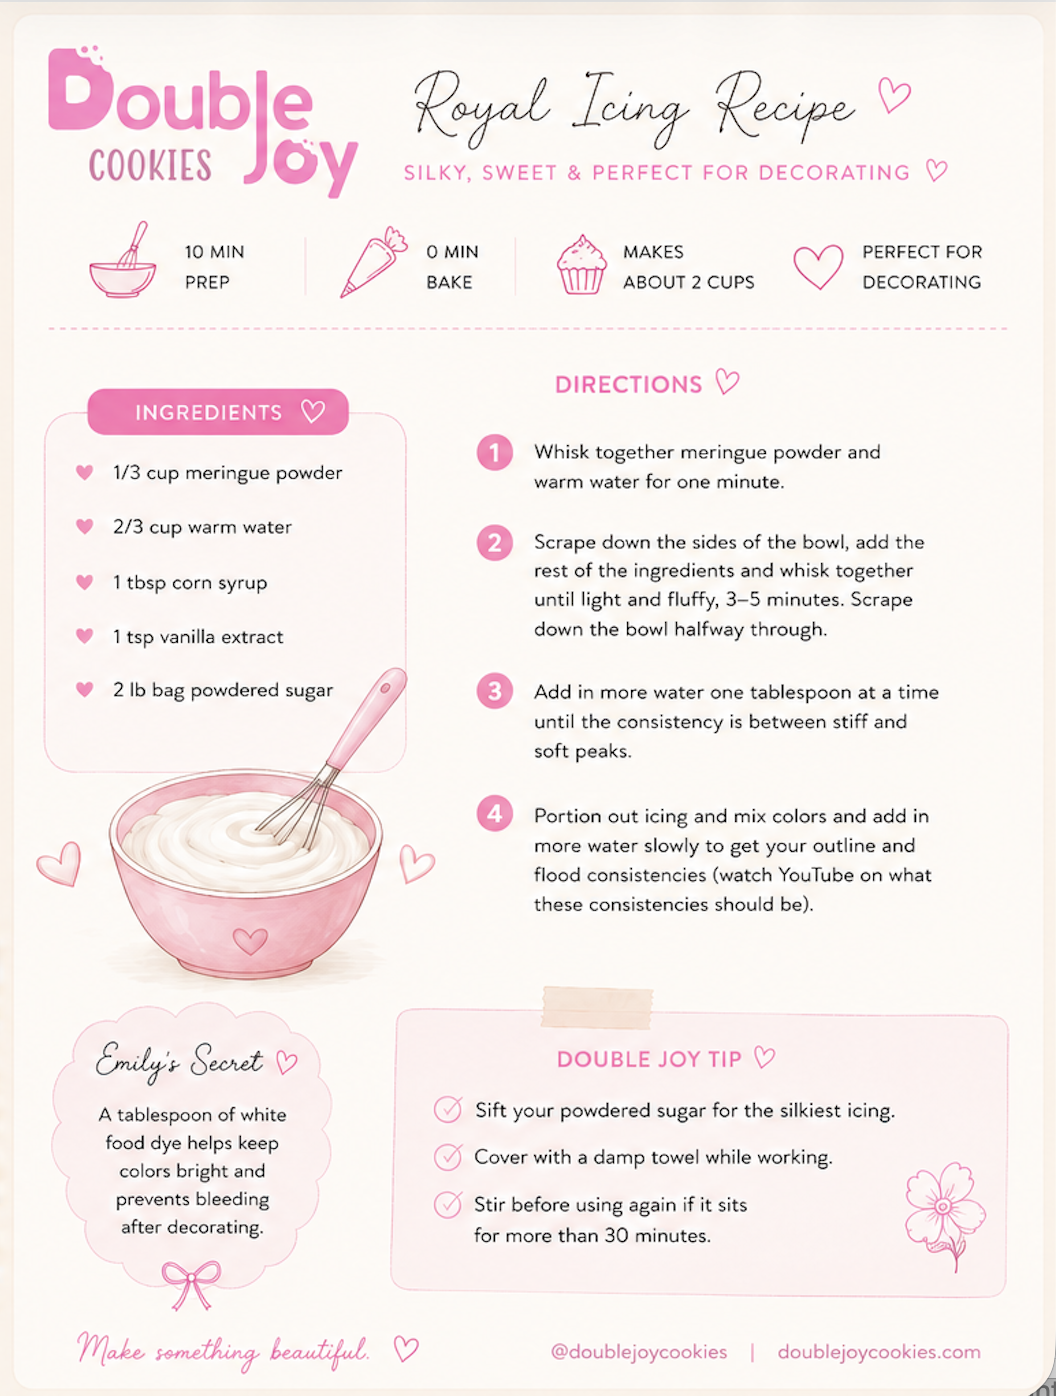
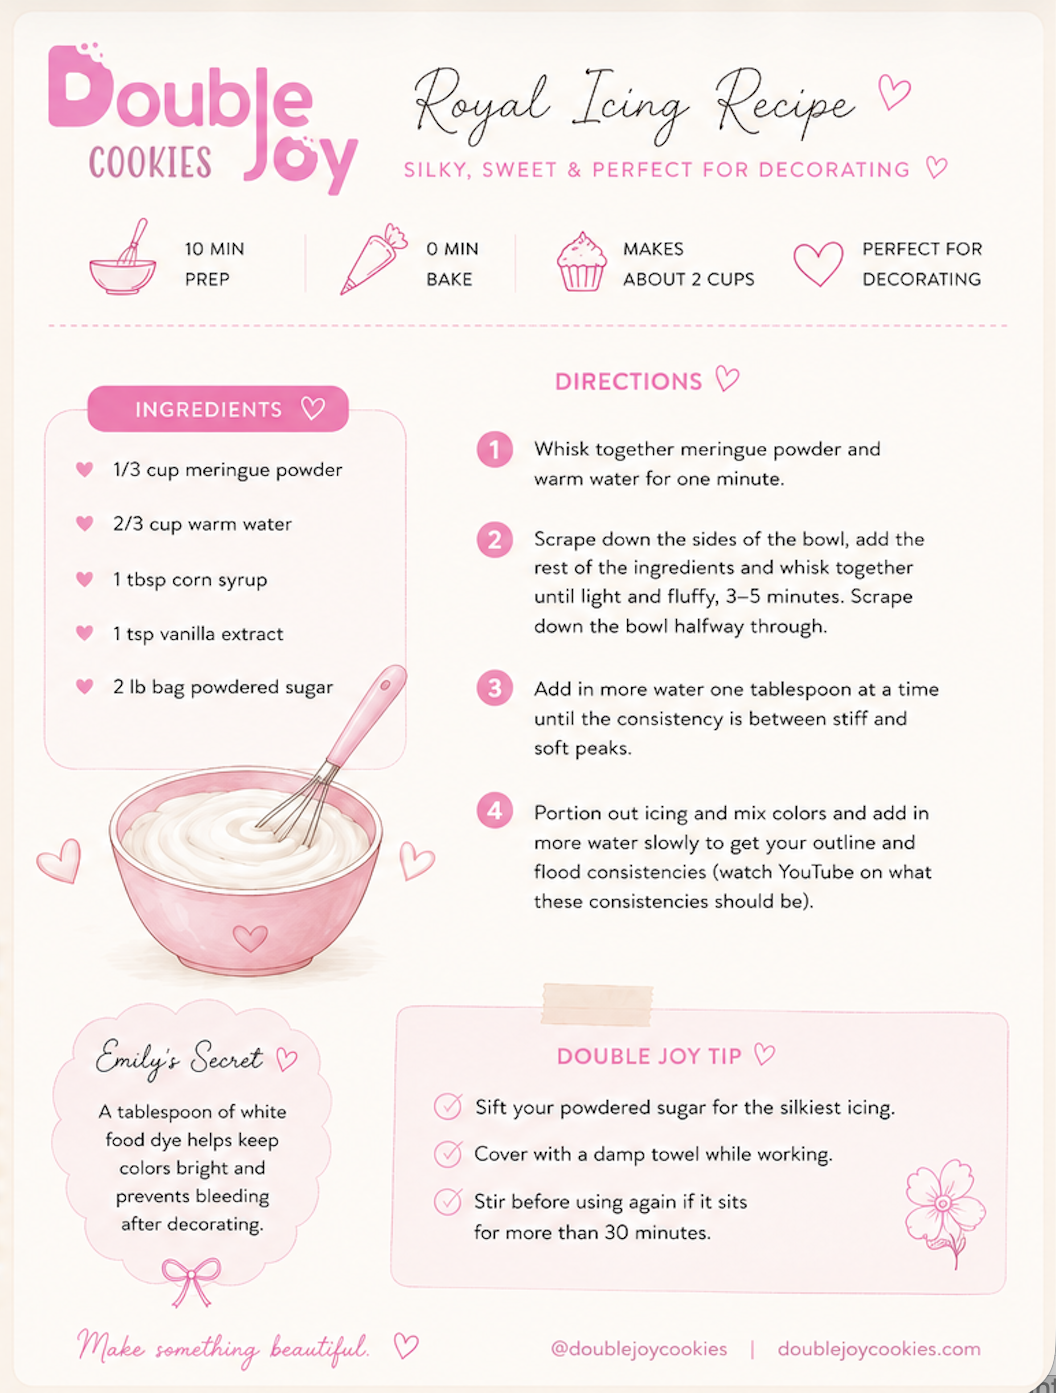
Crop royal icing recipe image, fix mobile date-min bug, rename nav to Shop My Kitchen

diff --git a/Website Files/double_joy_order_form.html b/Website Files/double_joy_order_form.html
@@ -242,7 +242,7 @@
     <a href="double_joy_about.html">About</a>
     <a href="double_joy_pricing.html">Pricing</a>
     <a href="double_joy_presale.html">Presale</a>
-    <a href="double_joy_recipe_shop.html">Shop</a>
+    <a href="double_joy_recipe_shop.html">Shop My Kitchen</a>
     <a href="double_joy_faq.html">FAQ</a>
     <a href="double_joy_contact.html">Contact</a>
   </div>
@@ -418,7 +418,7 @@
     <a href="double_joy_about.html">About</a>
     <a href="double_joy_pricing.html">Pricing</a>
     <a href="double_joy_presale.html">Presale</a>
-    <a href="double_joy_recipe_shop.html">Shop</a>
+    <a href="double_joy_recipe_shop.html">Shop My Kitchen</a>
     <a href="double_joy_faq.html">FAQ</a>
     <a href="double_joy_contact.html">Contact</a>
     <a href="double_joy_terms.html">Terms</a>
@@ -468,6 +468,17 @@ let DJC_EARLIEST_NEEDBY = '';
   const d = String(earliest.getDate()).padStart(2, '0');
   DJC_EARLIEST_NEEDBY = `${y}-${m}-${d}`;
   needByInput.min = DJC_EARLIEST_NEEDBY;
+
+  /* Some mobile browsers (iOS Safari in particular) don't reliably enforce
+     the native `min` attribute in the date picker UI, so the user can still
+     scroll/tap a date before it. Catch it the instant it's picked (not just
+     at submit) and snap it forward to the earliest valid date. */
+  needByInput.addEventListener('change', function(){
+    if(needByInput.value && needByInput.value < DJC_EARLIEST_NEEDBY){
+      needByInput.value = DJC_EARLIEST_NEEDBY;
+      if(typeof showToast === 'function') showToast("Orders need at least 2 weeks' notice — I moved this to the earliest available date.");
+    }
+  });
 })();
 
 /* Cute dozen stepper for quantity — replaces free-typed number input so

diff --git a/Website Files/double_joy_faq.html b/Website Files/double_joy_faq.html
@@ -141,7 +141,7 @@
     <a href="double_joy_about.html">About</a>
     <a href="double_joy_pricing.html">Pricing</a>
     <a href="double_joy_presale.html">Presale</a>
-    <a href="double_joy_recipe_shop.html">Shop</a>
+    <a href="double_joy_recipe_shop.html">Shop My Kitchen</a>
     <a href="double_joy_faq.html" class="current">FAQ</a>
     <a href="double_joy_contact.html">Contact</a>
   </div>
@@ -207,7 +207,7 @@
     <a href="double_joy_pricing.html">Pricing</a>
     <a href="double_joy_presale.html">Presale</a>
     <a href="double_joy_order_form.html">Custom Order</a>
-    <a href="double_joy_recipe_shop.html">Shop</a>
+    <a href="double_joy_recipe_shop.html">Shop My Kitchen</a>
     <a href="double_joy_contact.html">Contact</a>
     <a href="double_joy_terms.html">Terms</a>
     <a href="double_joy_payment.html">Payment</a>

diff --git a/Website Files/double_joy_about.html b/Website Files/double_joy_about.html
@@ -198,7 +198,7 @@
     <a href="double_joy_about.html" class="current">About</a>
     <a href="double_joy_pricing.html">Pricing</a>
     <a href="double_joy_presale.html">Presale</a>
-    <a href="double_joy_recipe_shop.html">Shop</a>
+    <a href="double_joy_recipe_shop.html">Shop My Kitchen</a>
     <a href="double_joy_faq.html">FAQ</a>
     <a href="double_joy_contact.html">Contact</a>
   </div>
@@ -345,7 +345,7 @@
     <a href="double_joy_pricing.html">Pricing</a>
     <a href="double_joy_presale.html">Presale</a>
     <a href="double_joy_order_form.html">Custom Order</a>
-    <a href="double_joy_recipe_shop.html">Shop</a>
+    <a href="double_joy_recipe_shop.html">Shop My Kitchen</a>
     <a href="double_joy_faq.html">FAQ</a>
     <a href="double_joy_contact.html">Contact</a>
     <a href="double_joy_terms.html">Terms</a>

diff --git a/Website Files/double_joy_contact.html b/Website Files/double_joy_contact.html
@@ -150,7 +150,7 @@
     <a href="double_joy_about.html">About</a>
     <a href="double_joy_pricing.html">Pricing</a>
     <a href="double_joy_presale.html">Presale</a>
-    <a href="double_joy_recipe_shop.html">Shop</a>
+    <a href="double_joy_recipe_shop.html">Shop My Kitchen</a>
     <a href="double_joy_faq.html">FAQ</a>
     <a href="double_joy_contact.html" class="current">Contact</a>
   </div>
@@ -210,7 +210,7 @@
     <a href="double_joy_pricing.html">Pricing</a>
     <a href="double_joy_presale.html">Presale</a>
     <a href="double_joy_order_form.html">Custom Order</a>
-    <a href="double_joy_recipe_shop.html">Shop</a>
+    <a href="double_joy_recipe_shop.html">Shop My Kitchen</a>
     <a href="double_joy_faq.html">FAQ</a>
     <a href="double_joy_terms.html">Terms</a>
     <a href="double_joy_payment.html">Payment</a>

diff --git a/Website Files/double_joy_presale.html b/Website Files/double_joy_presale.html
@@ -194,7 +194,7 @@
     <a href="double_joy_about.html">About</a>
     <a href="double_joy_pricing.html">Pricing</a>
     <a href="double_joy_presale.html" class="current">Presale</a>
-    <a href="double_joy_recipe_shop.html">Shop</a>
+    <a href="double_joy_recipe_shop.html">Shop My Kitchen</a>
     <a href="double_joy_faq.html">FAQ</a>
     <a href="double_joy_contact.html">Contact</a>
   </div>
@@ -254,7 +254,7 @@
     <a href="double_joy_pricing.html">Pricing</a>
     <a href="double_joy_order_form.html">Custom Order</a>
     <a href="double_joy_presale.html">Presale</a>
-    <a href="double_joy_recipe_shop.html">Shop</a>
+    <a href="double_joy_recipe_shop.html">Shop My Kitchen</a>
     <a href="double_joy_faq.html">FAQ</a>
     <a href="double_joy_contact.html">Contact</a>
     <a href="double_joy_terms.html">Terms</a>

diff --git a/Website Files/double_joy_pricing.html b/Website Files/double_joy_pricing.html
@@ -175,7 +175,7 @@
     <a href="double_joy_about.html">About</a>
     <a href="double_joy_pricing.html" class="current">Pricing</a>
     <a href="double_joy_presale.html">Presale</a>
-    <a href="double_joy_recipe_shop.html">Shop</a>
+    <a href="double_joy_recipe_shop.html">Shop My Kitchen</a>
     <a href="double_joy_faq.html">FAQ</a>
     <a href="double_joy_contact.html">Contact</a>
   </div>
@@ -305,7 +305,7 @@
     <a href="double_joy_about.html">About</a>
     <a href="double_joy_order_form.html">Custom Order</a>
     <a href="double_joy_presale.html">Presale</a>
-    <a href="double_joy_recipe_shop.html">Shop</a>
+    <a href="double_joy_recipe_shop.html">Shop My Kitchen</a>
     <a href="double_joy_faq.html">FAQ</a>
     <a href="double_joy_contact.html">Contact</a>
     <a href="double_joy_terms.html">Terms</a>

diff --git a/Website Files/double_joy_terms.html b/Website Files/double_joy_terms.html
@@ -127,7 +127,7 @@
     <a href="double_joy_about.html">About</a>
     <a href="double_joy_pricing.html">Pricing</a>
     <a href="double_joy_presale.html">Presale</a>
-    <a href="double_joy_recipe_shop.html">Shop</a>
+    <a href="double_joy_recipe_shop.html">Shop My Kitchen</a>
     <a href="double_joy_faq.html">FAQ</a>
     <a href="double_joy_contact.html">Contact</a>
   </div>
@@ -209,7 +209,7 @@
     <a href="double_joy_pricing.html">Pricing</a>
     <a href="double_joy_presale.html">Presale</a>
     <a href="double_joy_order_form.html">Custom Order</a>
-    <a href="double_joy_recipe_shop.html">Shop</a>
+    <a href="double_joy_recipe_shop.html">Shop My Kitchen</a>
     <a href="double_joy_faq.html">FAQ</a>
     <a href="double_joy_contact.html">Contact</a>
     <a href="double_joy_payment.html">Payment</a>

diff --git a/Website Files/double_joy_cookie_menu.html b/Website Files/double_joy_cookie_menu.html
@@ -457,7 +457,7 @@
     <a href="double_joy_about.html">About</a>
     <a href="double_joy_pricing.html">Pricing</a>
     <a href="double_joy_presale.html">Presale</a>
-    <a href="double_joy_recipe_shop.html">Shop</a>
+    <a href="double_joy_recipe_shop.html">Shop My Kitchen</a>
     <a href="double_joy_faq.html">FAQ</a>
     <a href="double_joy_contact.html">Contact</a>
   </div>
@@ -543,7 +543,7 @@
     <a href="double_joy_pricing.html">Pricing</a>
     <a href="double_joy_presale.html">Presale</a>
     <a href="double_joy_order_form.html">Custom Order</a>
-    <a href="double_joy_recipe_shop.html">Shop</a>
+    <a href="double_joy_recipe_shop.html">Shop My Kitchen</a>
     <a href="double_joy_faq.html">FAQ</a>
     <a href="double_joy_contact.html">Contact</a>
     <a href="double_joy_terms.html">Terms</a>

diff --git a/Website Files/double_joy_payment.html b/Website Files/double_joy_payment.html
@@ -132,7 +132,7 @@
     <a href="double_joy_about.html">About</a>
     <a href="double_joy_pricing.html">Pricing</a>
     <a href="double_joy_presale.html">Presale</a>
-    <a href="double_joy_recipe_shop.html">Shop</a>
+    <a href="double_joy_recipe_shop.html">Shop My Kitchen</a>
     <a href="double_joy_faq.html">FAQ</a>
     <a href="double_joy_contact.html">Contact</a>
   </div>
@@ -207,7 +207,7 @@
     <a href="double_joy_pricing.html">Pricing</a>
     <a href="double_joy_presale.html">Presale</a>
     <a href="double_joy_order_form.html">Custom Order</a>
-    <a href="double_joy_recipe_shop.html">Shop</a>
+    <a href="double_joy_recipe_shop.html">Shop My Kitchen</a>
     <a href="double_joy_faq.html">FAQ</a>
     <a href="double_joy_contact.html">Contact</a>
     <a href="double_joy_terms.html">Terms</a>

diff --git a/Website Files/index.html b/Website Files/index.html
@@ -197,7 +197,7 @@
     <a href="double_joy_about.html">About</a>
     <a href="double_joy_pricing.html">Pricing</a>
     <a href="double_joy_presale.html">Presale</a>
-    <a href="double_joy_recipe_shop.html">Shop</a>
+    <a href="double_joy_recipe_shop.html">Shop My Kitchen</a>
     <a href="double_joy_faq.html">FAQ</a>
     <a href="double_joy_contact.html">Contact</a>
   </div>
@@ -295,7 +295,7 @@
     <a href="double_joy_pricing.html">Pricing</a>
     <a href="double_joy_presale.html">Presale</a>
     <a href="double_joy_order_form.html">Custom Order</a>
-    <a href="double_joy_recipe_shop.html">Shop</a>
+    <a href="double_joy_recipe_shop.html">Shop My Kitchen</a>
     <a href="double_joy_faq.html">FAQ</a>
     <a href="double_joy_contact.html">Contact</a>
     <a href="double_joy_terms.html">Terms</a>

diff --git a/Website Files/double_joy_complexity_guide.html b/Website Files/double_joy_complexity_guide.html
@@ -104,7 +104,7 @@
     <a href="double_joy_cookie_menu.html">Dream Up Your Cookies</a>
     <a href="double_joy_order_form.html">Custom Order</a>
     <a href="double_joy_complexity_guide.html" class="current">Complexity Guide</a>
-    <a href="double_joy_recipe_shop.html">Recipe Shop</a>
+    <a href="double_joy_recipe_shop.html">Shop My Kitchen</a>
     <a href="double_joy_contact.html">Contact</a>
   </div>
 </nav>

diff --git a/Website Files/double_joy_recipe_shop.html b/Website Files/double_joy_recipe_shop.html
@@ -200,7 +200,7 @@
     <a href="double_joy_about.html">About</a>
     <a href="double_joy_pricing.html">Pricing</a>
     <a href="double_joy_presale.html">Presale</a>
-    <a href="double_joy_recipe_shop.html" class="current">Shop</a>
+    <a href="double_joy_recipe_shop.html" class="current">Shop My Kitchen</a>
     <a href="double_joy_faq.html">FAQ</a>
     <a href="double_joy_contact.html">Contact</a>
   </div>
